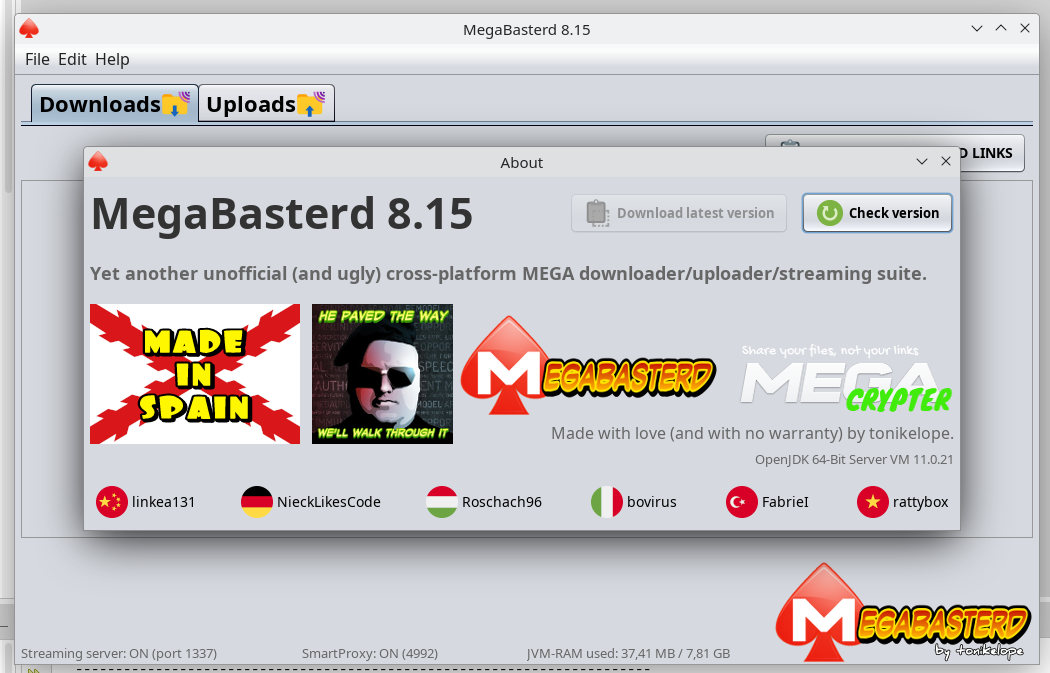
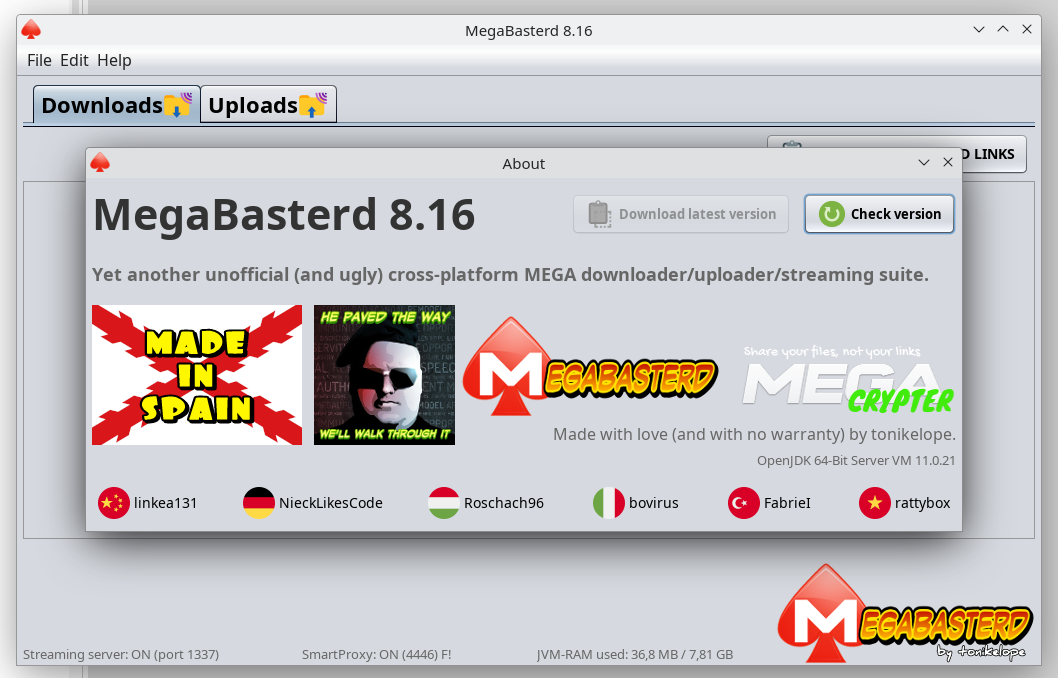
8.16
Upload logs in folder
SmartProxy tunning

diff --git a/src/main/java/com/tonikelope/megabasterd/ChunkDownloader.java b/src/main/java/com/tonikelope/megabasterd/ChunkDownloader.java
@@ -194,7 +194,15 @@ public class ChunkDownloader implements Runnable, SecureSingleThreadNotifiable {
 
                     if (_current_smart_proxy != null && chunk_error) {
 
-                        proxy_manager.blockProxy(_current_smart_proxy, timeout ? "TIMEOUT!" : "HTTP " + String.valueOf(http_error));
+                        if (!timeout && http_error != 429) {
+                            proxy_manager.blockProxy(_current_smart_proxy, timeout ? "TIMEOUT!" : "HTTP " + String.valueOf(http_error));
+                        } else if (timeout) {
+                            _excluded_proxy_list.add(_current_smart_proxy);
+                            LOG.log(Level.WARNING, "{0} Worker [{1}] PROXY {2} TIMEOUT", new Object[]{Thread.currentThread().getName(), _id, _current_smart_proxy});
+                        } else {
+                            _excluded_proxy_list.add(_current_smart_proxy);
+                            LOG.log(Level.WARNING, "{0} Worker [{1}] PROXY {2} TOO MANY CONNECTIONS", new Object[]{Thread.currentThread().getName(), _id, _current_smart_proxy});
+                        }
 
                         String[] smart_proxy = proxy_manager.getProxy(_excluded_proxy_list);
 
@@ -273,6 +281,8 @@ public class ChunkDownloader implements Runnable, SecureSingleThreadNotifiable {
                 chunk_error = true;
 
                 timeout = false;
+
+                http_error = 0;
 
                 File tmp_chunk_file = null, chunk_file = null;
 

diff --git a/src/main/java/com/tonikelope/megabasterd/MiscTools.java b/src/main/java/com/tonikelope/megabasterd/MiscTools.java
@@ -119,6 +119,8 @@ public class MiscTools {
     public static final int EXP_BACKOFF_MAX_WAIT_TIME = 8;
     public static final Object PASS_LOCK = new Object();
     public static final int HTTP_TIMEOUT = 30;
+    public static final String UPLOAD_LOGS_DIR = System.getProperty("user.home") + File.separator + "MEGABASTERD_UPLOAD_LOGS";
+
     private static final Comparator<DefaultMutableTreeNode> TREE_NODE_COMPARATOR = (DefaultMutableTreeNode a, DefaultMutableTreeNode b) -> {
         if (a.isLeaf() && !b.isLeaf()) {
             return 1;
@@ -158,6 +160,27 @@ public class MiscTools {
         }
 
         return null;
+    }
+
+    public static void createUploadLogDir() {
+
+        if (!Files.exists(Paths.get(UPLOAD_LOGS_DIR))) {
+            try {
+                Files.createDirectory(Paths.get(UPLOAD_LOGS_DIR));
+
+                File dir = new File(System.getProperty("user.home"));
+
+                for (File file : dir.listFiles()) {
+                    if (!file.isDirectory() && file.getName().startsWith("megabasterd_upload_")) {
+                        Files.move(file.toPath(), Paths.get(UPLOAD_LOGS_DIR + File.separator + file.getName()));
+                    }
+                }
+
+            } catch (IOException ex) {
+                Logger.getLogger(MiscTools.class.getName()).log(Level.SEVERE, null, ex);
+            }
+
+        }
     }
 
     public static void purgeFolderCache() {

diff --git a/src/main/java/com/tonikelope/megabasterd/MainPanel.java b/src/main/java/com/tonikelope/megabasterd/MainPanel.java
@@ -70,7 +70,7 @@ import javax.swing.UIManager;
  */
 public final class MainPanel {
 
-    public static final String VERSION = "8.15";
+    public static final String VERSION = "8.16";
     public static final boolean FORCE_SMART_PROXY = false; //TRUE FOR DEBUGING SMART PROXY
     public static final int THROTTLE_SLICE_SIZE = 16 * 1024;
     public static final int DEFAULT_BYTE_BUFFER_SIZE = 16 * 1024;
@@ -255,6 +255,8 @@ public final class MainPanel {
         _resume_uploads = false;
 
         _resume_downloads = false;
+
+        MiscTools.createUploadLogDir();
 
         try {
 

diff --git a/src/main/java/com/tonikelope/megabasterd/Upload.java b/src/main/java/com/tonikelope/megabasterd/Upload.java
@@ -992,7 +992,7 @@ public class Upload implements Transference, Runnable, SecureSingleThreadNotifia
 
                                 synchronized (this.getMain_panel().getUpload_manager().getLog_file_lock()) {
 
-                                    File upload_log = new File(MainPanel.MEGABASTERD_HOME_DIR + "/megabasterd_upload_" + _root_node + ".log");
+                                    File upload_log = new File(MiscTools.UPLOAD_LOGS_DIR + "/megabasterd_upload_" + _root_node + ".log");
 
                                     if (upload_log.exists()) {
 

diff --git a/src/main/java/com/tonikelope/megabasterd/MainPanelView.java b/src/main/java/com/tonikelope/megabasterd/MainPanelView.java
@@ -276,7 +276,7 @@ public final class MainPanelView extends javax.swing.JFrame {
 
                         if (dialog.getUpload_log_checkbox().isSelected()) {
 
-                            File upload_log = new File(MainPanel.MEGABASTERD_HOME_DIR + "/megabasterd_upload_" + parent_node + ".log");
+                            File upload_log = new File(MiscTools.UPLOAD_LOGS_DIR + "/megabasterd_upload_" + parent_node + ".log");
                             upload_log.createNewFile();
 
                             FileWriter fr;
